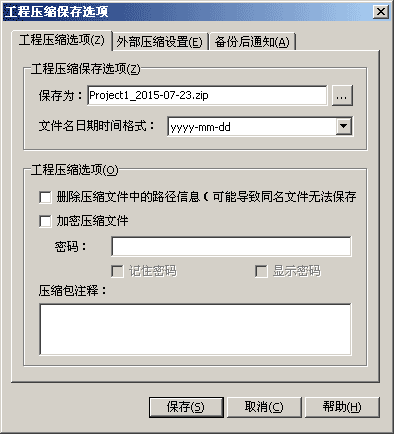
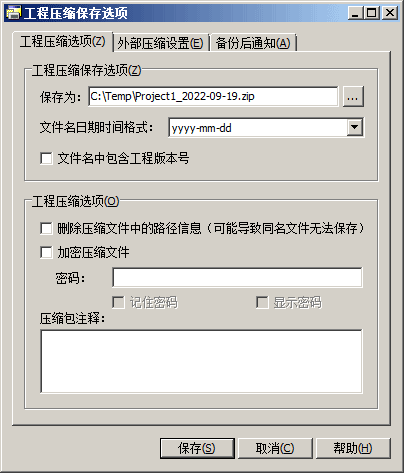
* [Help] Update Project Backup.

Changed region(s): [[0.0, 0.0, 0.9746, 0.9885], [0.8528, 0.0, 1.0, 0.0599]]

diff --git a/Help/CnWizards_ENU/wizards/projext/projbackup.htm b/Help/CnWizards_ENU/wizards/projext/projbackup.htm
@@ -56,6 +56,9 @@
   <li>
     <p class="text"><b>File Timestamp Format</b>: You can select a date and time format to generate the timestamp part in the destination file name.</li></p>
   <li>
+    <p class="text"><b>Include Project Version</b>: If it was checked, destination file name will contain the version number of project.</p>
+  </li>
+  <li>
     <p class="text"><b>Remove Path Info</b>: If it was checked, path information of files will be ignored. All files will be zipped to the same level. If there were files with the same name, only the last file will be zipped.</p>
   </li>
   <li>
